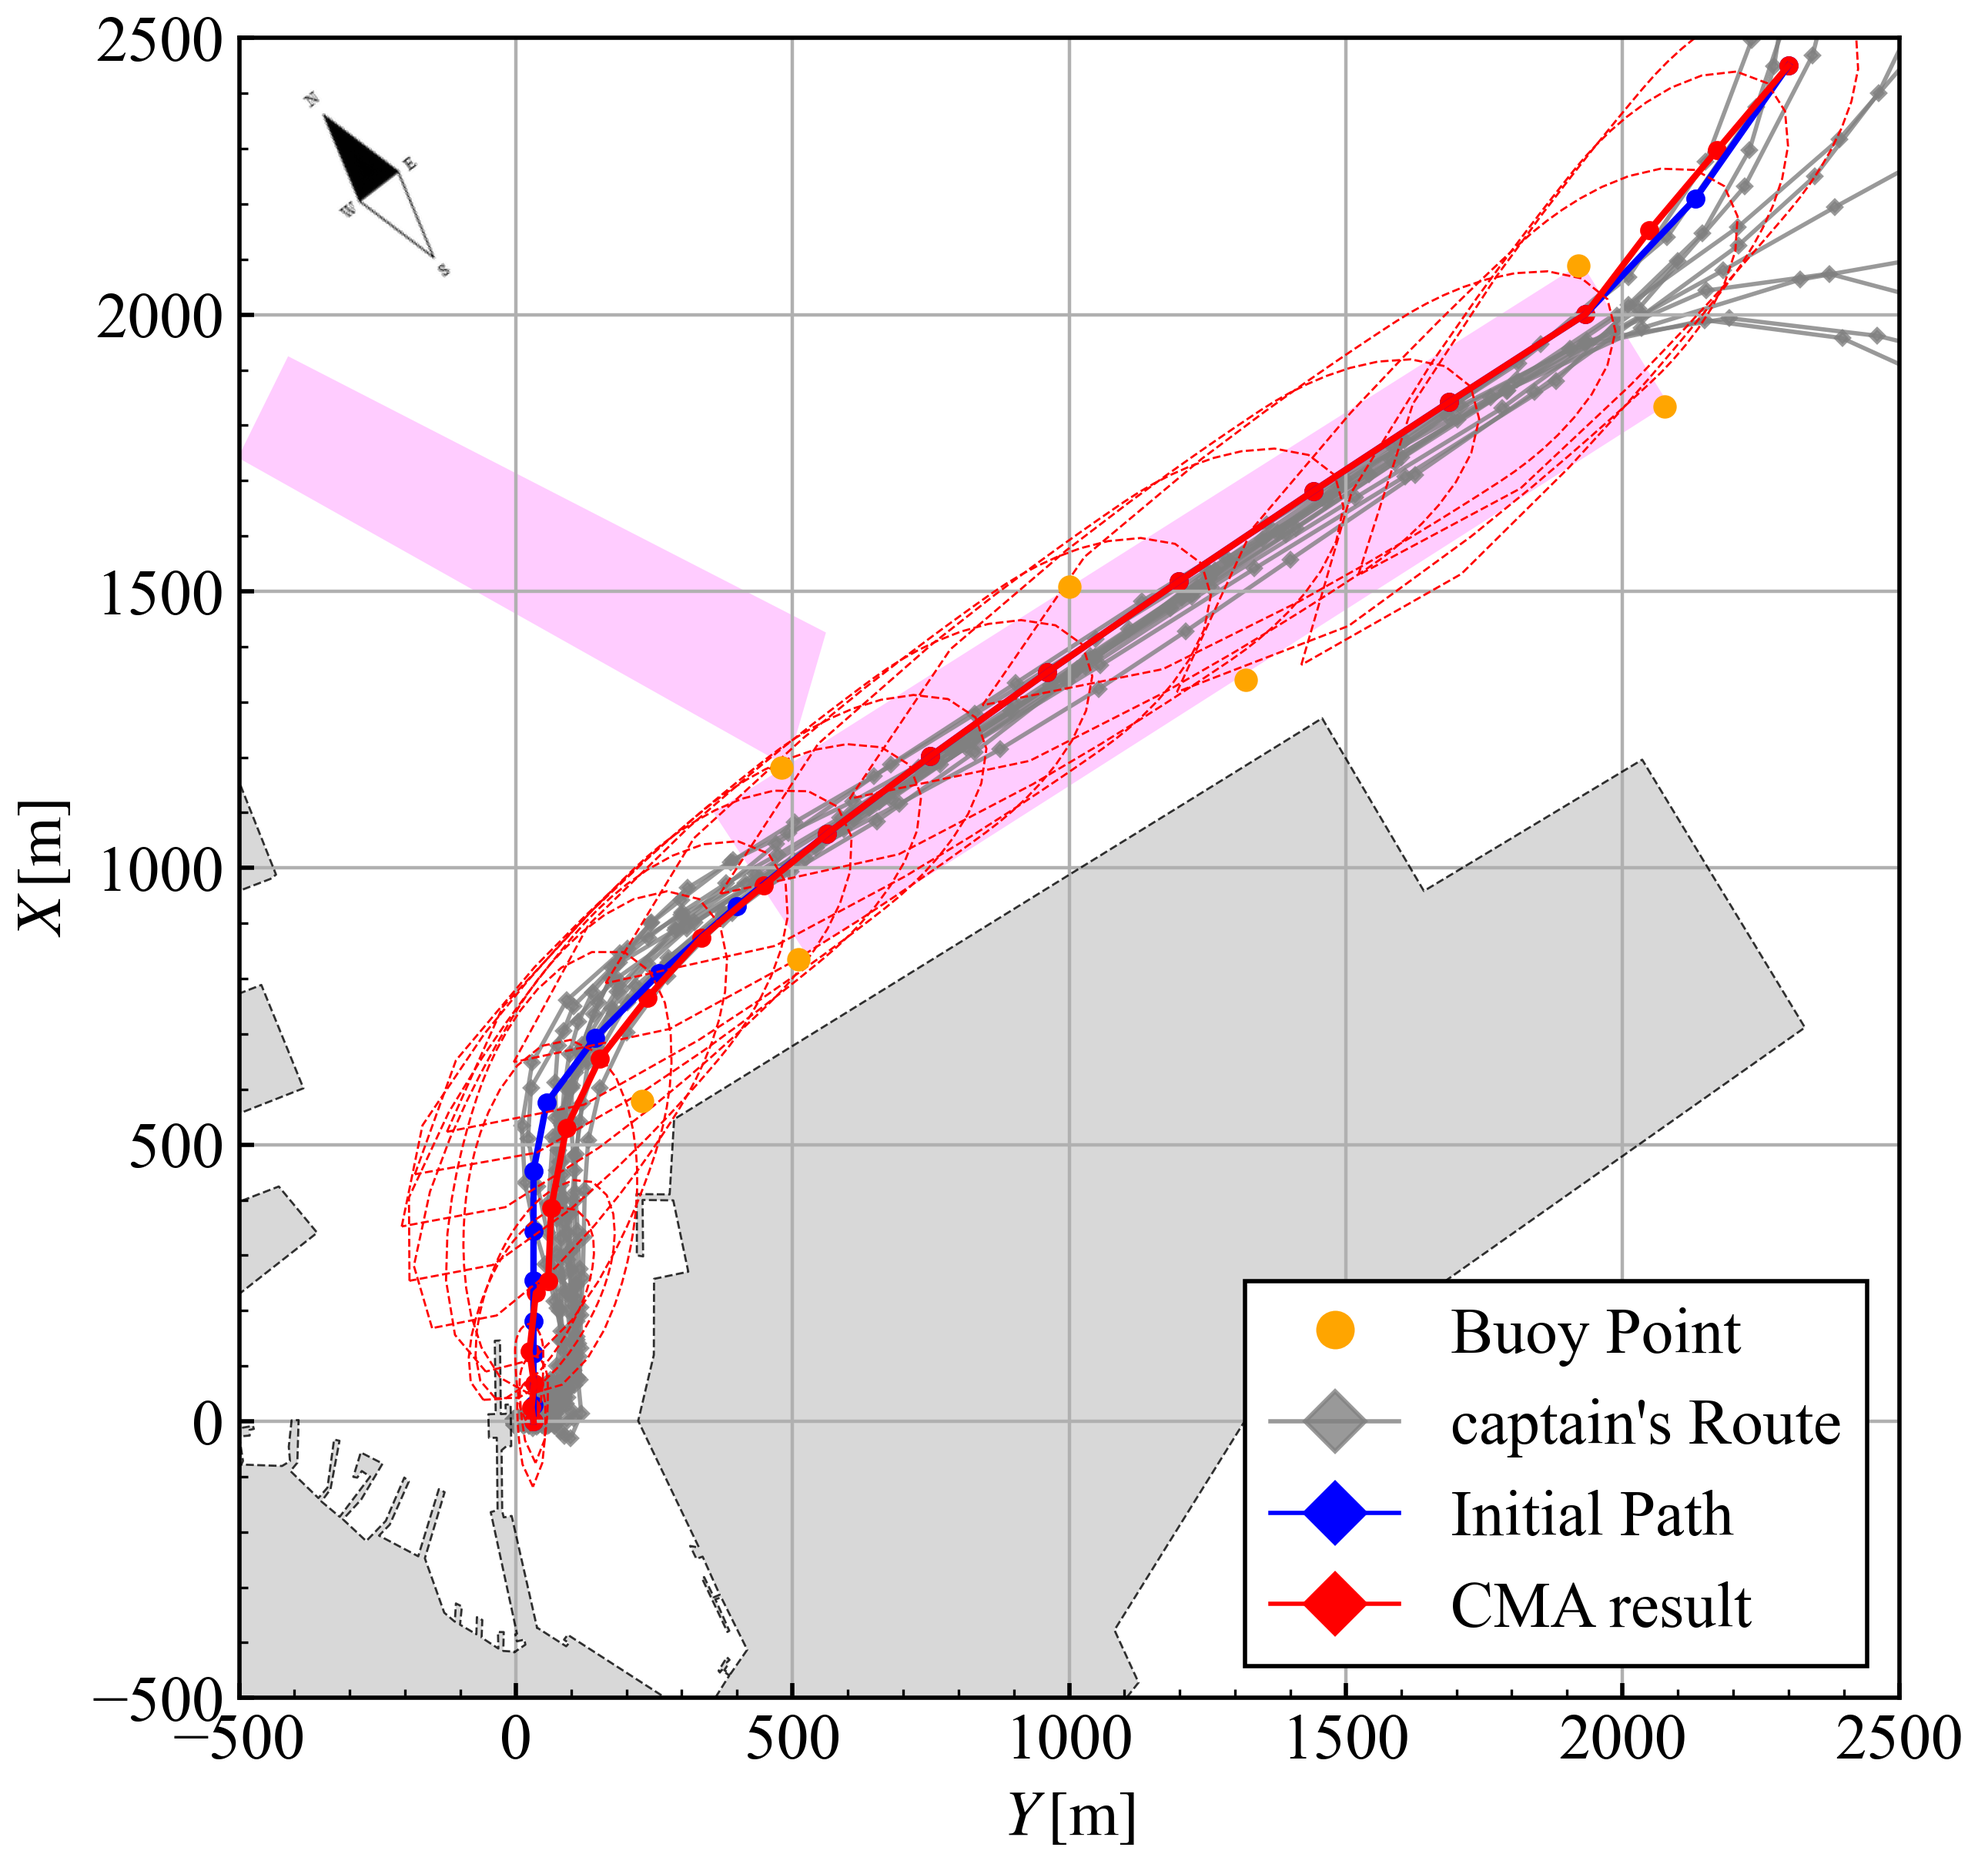
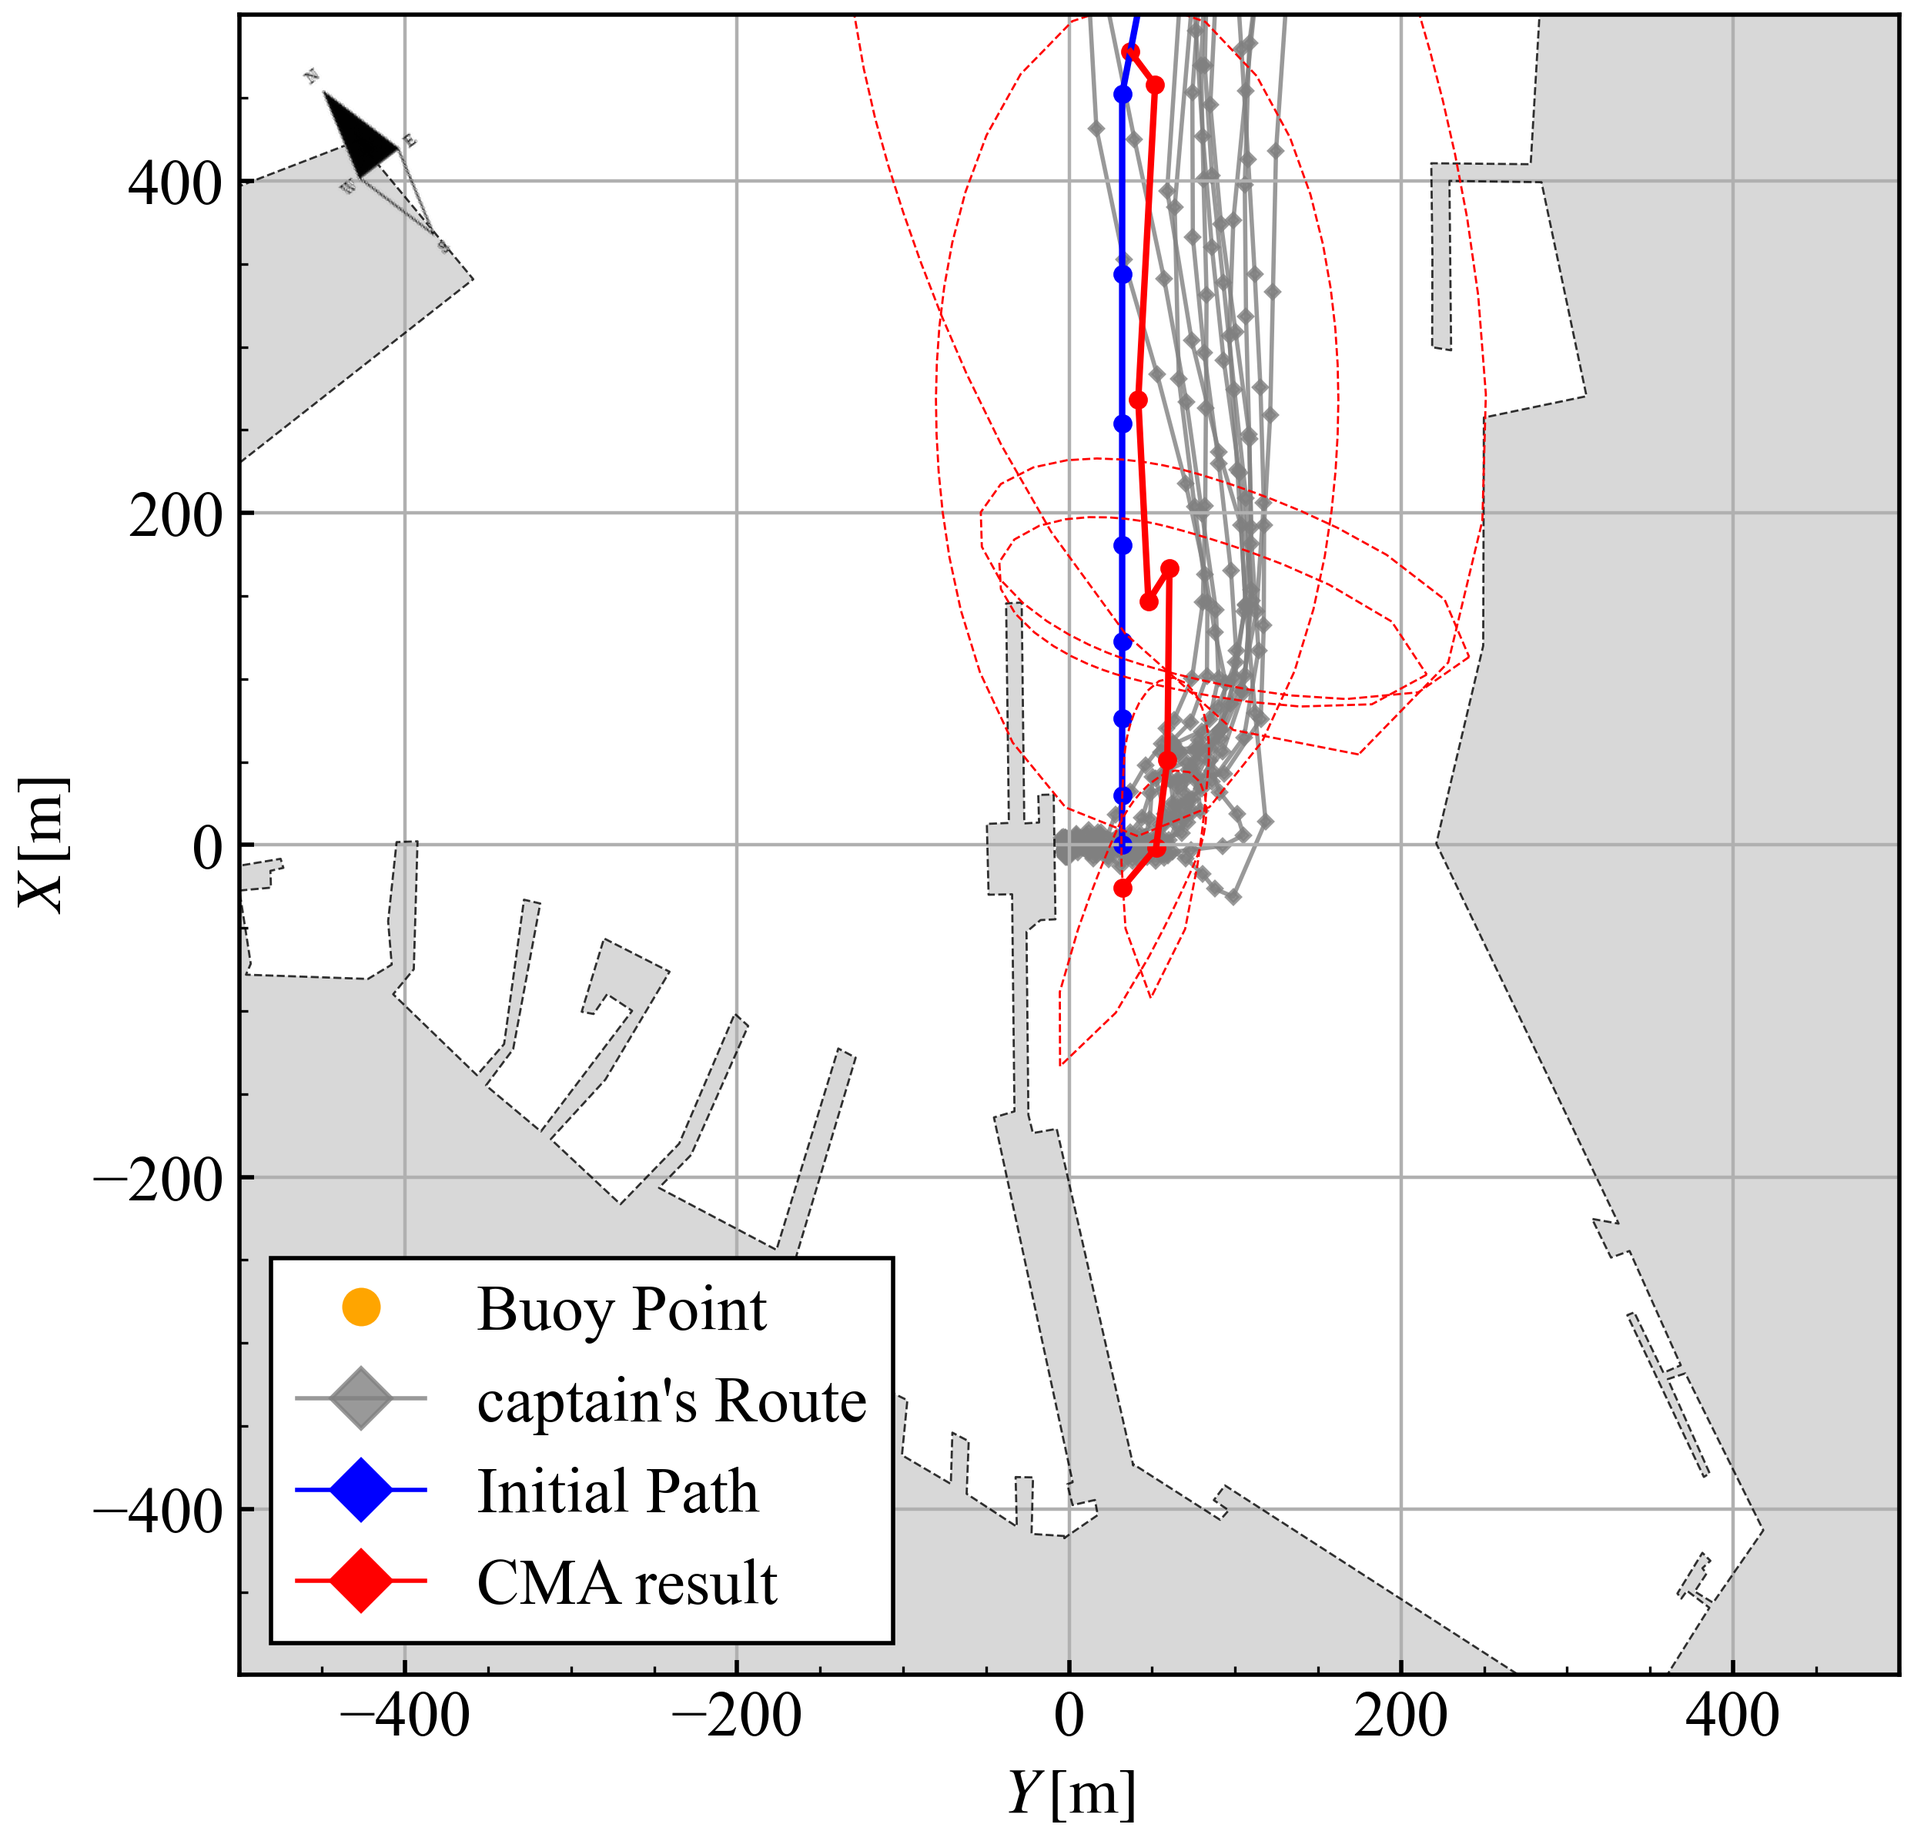
評価関数どうしよう

diff --git a/program/path_planning/CMA-ES3.py b/program/path_planning/CMA-ES3.py
@@ -40,7 +40,7 @@ class Setting:
         self.B = 16.0
 
         # CMA-ES
-        self.target = "point"
+        self.target = "beta"
         self.seed: int = 42
         self.MAX_SPEED_KTS: float = 9.5  # [knots]
         self.MIN_SPEED_KTS: float = 1.5  # [knots]
@@ -387,10 +387,10 @@ class MakeLine:
         self.init_beta_list = self.set_beta(self.init_pts)
         self.show_beta_pt(self.init_pts, self.init_beta_list)
         print("initial point calculated\n")
-        self.initial_D = self.cal_sigma_for_ddCMA(points=self.init_pts,
-                                                  last_point=self.lines[-1].end_pt
+        self.initial_D = self.cal_sigma_for_ddCMA(points=self.target_list,
+                                                  last_point=self.init_list[-1]
                                                   )
-        self.initial_vec = self.init_pts.ravel()  # <<< important: flatten for CMA-ES
+        self.initial_vec = self.target_list.ravel()  # <<< important: flatten for CMA-ES
         self.N = len(self.initial_vec)
         print(
             f"この最適化問題の次元Nは {self.N} です\n"
@@ -400,7 +400,7 @@ class MakeLine:
 
     def CMAES(self):
         # compute auto scaling coefficients from initial solution
-        self.compute_cost_weights(self.init_pts)
+        self.compute_cost_weights(self.target_list)
 
         # --- CMA-ES expects 1D mean (N,) and sigma0 of same length ---
         ddcma = DdCma(xmean0=self.initial_vec, sigma0=self.initial_D, seed=self.ps.seed)
@@ -453,7 +453,8 @@ class MakeLine:
                 )
 
             while not is_satisfied:
-                ddcma.onestep(func=self.path_evaluate, check=self.enforce_max_turn_angle)
+                # ddcma.onestep(func=self.path_evaluate, check=self.enforce_max_turn_angle)
+                ddcma.onestep(func=self.path_evaluate, check=None)
 
                 best_cost = float(np.min(ddcma.arf))
                 best_mean = ddcma.arx[int(ddcma.idx[0])].copy()
@@ -754,7 +755,9 @@ class MakeLine:
         last_point: Tuple[float, float],
         *,
         min_sigma: float = 5.0,
+        min_sigma_psi: float = 5.0,
         scale: float = 0.5,
+        scale_psi: float = 0.5,
     ) -> np.ndarray:
         ver = points[:, 0]
         hor = points[:, 1]
@@ -762,7 +765,14 @@ class MakeLine:
         hor_diffs = np.abs(np.diff(hor, append=last_point[1])) * scale
         ver_diffs = np.maximum(ver_diffs, min_sigma)
         hor_diffs = np.maximum(hor_diffs, min_sigma)
-        return np.column_stack((ver_diffs, hor_diffs)).ravel()
+
+        psi = points[:, 2]
+        dpsi = np.diff(psi, append=last_point[2])
+        dpsi = dpsi % (2 * np.pi)
+        psi_diffs = np.abs(dpsi) * scale_psi
+        psi_diffs = np.maximum(psi_diffs, min_sigma_psi)
+
+        return np.column_stack((ver_diffs, hor_diffs, psi_diffs)).ravel()
     
     def compute_cost_weights(self, pts):
         """
@@ -771,23 +781,29 @@ class MakeLine:
         """
         cal = self.cal
 
-        start = self.init_pts[0]
-        end = self.init_pts[-1]
+        start = self.init_list[0]
+        end = self.init_list[-1]
         poly = np.vstack([start, pts, end])
-        # Space Penalty
+        pts = poly[:, :2]; head = poly[:, 2] 
+
+        # beta
+        beta_cost = 0.0
+        # for j in range(1, len(poly) - 1):
+        #     psi = (cal_psi(pts[j-1], pts[j], pts[j+1]) ) % (2*np.pi)
+        #     beta = head[j] - psi
+        #     beta_cost += cal.beta_penalty(np.rad2deg(beta))
+
+        beta_list = np.diff(head) 
+        for beta in beta_list: 
+            beta_cost += cal.beta_penalty(np.rad2deg(beta))
+
         space_cost = 0.0
-        for j in range(len(pts) - 1):
-            space_cost += cal.spacing_penalty(poly[j], poly[j+1])
+        for j in range(len(poly) - 1):
+            space_cost += cal.spacing_penalty(pts[j], pts[j+1])
 
-        # shiping lane init
-        cal.ShippingLaneInit(poly)
+        self.space_coeff = beta_cost / space_cost
 
-        self.length_coeff = 0.1
-        self.SD_coeff = 10.0
-        self.space_coeff = 10.0 / space_cost
-        self.lane_coeff = 1.0
-        print(f"length_coeff : {self.length_coeff}, SD_coeff : {self.SD_coeff}")
-        print(f"space_coeff : {self.space_coeff}, lane_coeff : {self.lane_coeff}\n")
+        print(f"space_coeff : {self.space_coeff}\n")
 
     def path_evaluate(self, X):
         batched = True
@@ -797,8 +813,10 @@ class MakeLine:
             batched = False
 
         cal = self.cal
-        start = self.init_pts[0]
-        end = self.init_pts[-1]
+        # start = self.init_pts[0]
+        # end = self.init_pts[-1]
+        start = self.init_list[0]
+        end = self.init_list[-1]
 
         # prepare for cost calculation
         straight_length = np.linalg.norm(start - end)
@@ -846,11 +864,34 @@ class MakeLine:
                 costs[i] = total
             
             elif self.ps.target == "beta":
-                beta_list = arr[i].reshape(-1, 1)
-                pts = None
-                for j in range(len(pts)):
-                    pt = pts[j], beta=beta_list[j]
-                    turn_cost = cal.turnig_angle(pt, beta)
+                arr_i = arr[i].reshape(-1, 3)
+                poly = np.vstack([start, arr_i, end])
+                pts = poly[:, :2]; head = poly[:, 2] 
+
+                # Ship Domain
+                SD_cost = 0.0
+                for j in range(1, len(poly)-1):
+                    SD_cost += cal.SD_penalty(pts[j], head[j])
+
+                # beta
+                beta_cost = 0.0
+                # for j in range(1, len(poly) - 1):
+                #     psi = (cal_psi(pts[j-1], pts[j], pts[j+1]) ) % (2*np.pi)
+                #     beta = head[j] - psi
+                #     beta_cost += cal.beta_penalty(np.rad2deg(beta))
+
+                # beta 
+                beta_cost = 0.0 
+                beta_list = np.diff(head) 
+                for beta in beta_list: 
+                    beta_cost += cal.beta_penalty(np.rad2deg(beta))
+
+                space_cost = 0.0
+                for j in range(len(poly) - 1):
+                    space_cost += cal.spacing_penalty(pts[j], pts[j+1])
+
+                total = (100 *SD_cost + 0.1 * beta_cost + 0.1 * self.space_coeff * space_cost)
+                costs[i] = SD_cost
 
         return float(costs[0]) if not batched else costs
 
@@ -1060,27 +1101,32 @@ class MakeLine:
         beta_pts[idx, 0] = init_pts[idx, 0] + dy
         beta_pts[idx, 1] = init_pts[idx, 1] + dx
 
-        ax.plot(beta_pts[:, 1], beta_pts[:, 0], color="red", linestyle='-')
-        ax.scatter(beta_pts[:, 1], beta_pts[:, 0], c="r",s=12, marker="o")
+        h1, = ax.plot(beta_pts[:, 1], beta_pts[:, 0], color="red", linestyle='-')
+        h2 = ax.scatter(beta_pts[:, 1], beta_pts[:, 0], c="r",s=12, marker="o")
         plt.savefig(os.path.join(self.SAVE_DIR, f"psi.png"),
                     dpi=400, bbox_inches="tight", pad_inches=0.05)
         ax.set_xlim(-500, 500)
         ax.set_ylim(-500, 500)
         plt.savefig(os.path.join(self.SAVE_DIR, f"psi zoom.png"),
                     dpi=400, bbox_inches="tight", pad_inches=0.05)
-        print("A")
+        print(beta_pts[idx].shape)
+        print(psi_tail.shape)
 
-        self.init_list = np.vstack([beta_pts[idx], psi_tail])
-
+        self.init_list = np.hstack([beta_pts[idx], psi_tail.reshape(-1, 1)])
+        self.target_list = self.init_list[1:-1]
+        h1.remove(); h2.remove()
 
     def show_CMA_path(self, best_mean, restart):
         ax = self.ax
         SD = self.SD
-        start = self.init_pts[0]; end = self.init_pts[-1]
+        # start = self.init_pts[0]; end = self.init_pts[-1]
+        start = self.init_list[0]; end = self.init_list[-1]
         h_list = []
 
-        pts = np.asarray(best_mean, float).reshape(-1, 2)
-        path = np.vstack([start, pts, end])
+        list = np.asarray(best_mean, float).reshape(-1, 3)
+        poly = np.vstack([start, list, end])
+        path = poly[:, :2]; psi_list = poly[:, 2] 
+        # path = np.vstack([start, pts, end])
 
         # path, point
         h1, = ax.plot(path[:, 1], path[:, 0], color="red", linestyle='-')
@@ -1147,8 +1193,8 @@ class MakeLine:
             best_mean_sofar = values["best_mean_sofar"]
             calculation_time = values["calculation_time"]
             pairs = "\n".join(
-                f"  ({best_mean_sofar[i]:.6f}, {best_mean_sofar[i+1]:.6f})"
-                for i in range(0, len(best_mean_sofar), 2)
+                f"  ({best_mean_sofar[i]:.6f}, {best_mean_sofar[i+1]:.6f}, {best_mean_sofar[i+2]:.6f})"
+                for i in range(0, len(best_mean_sofar), 3)
             )
             print(
                 f"\n[Restart {restart}]\n"
